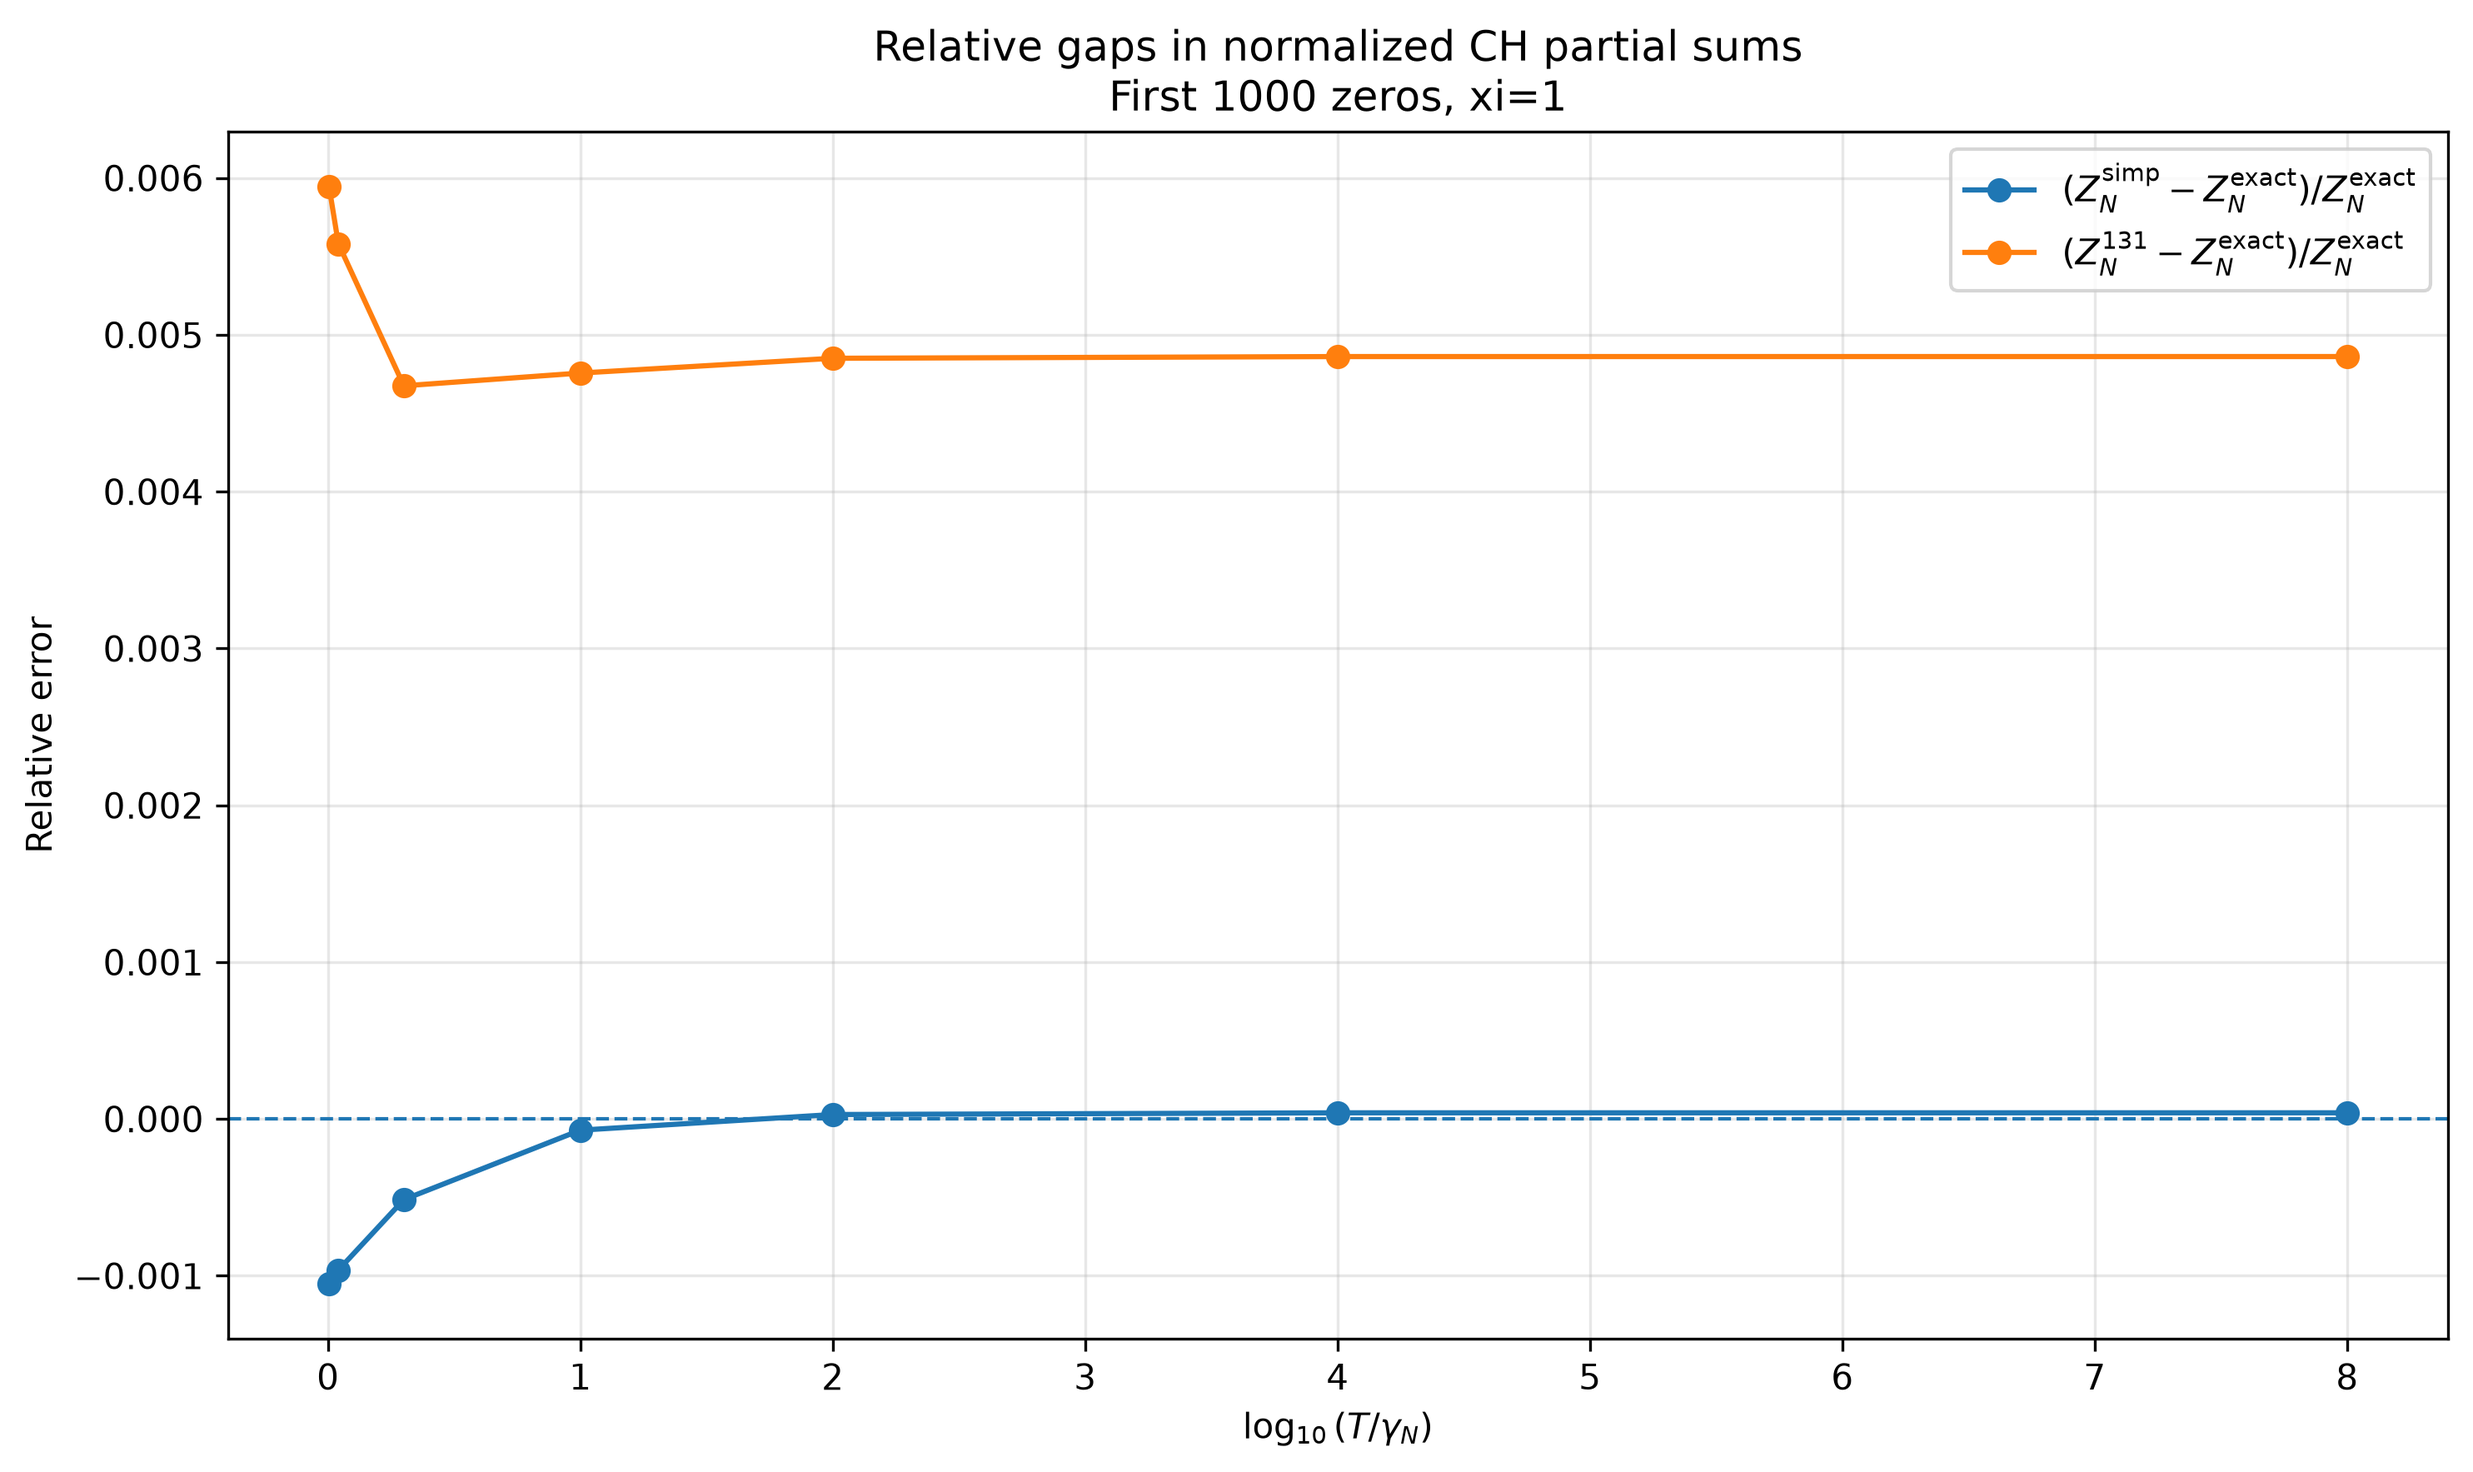
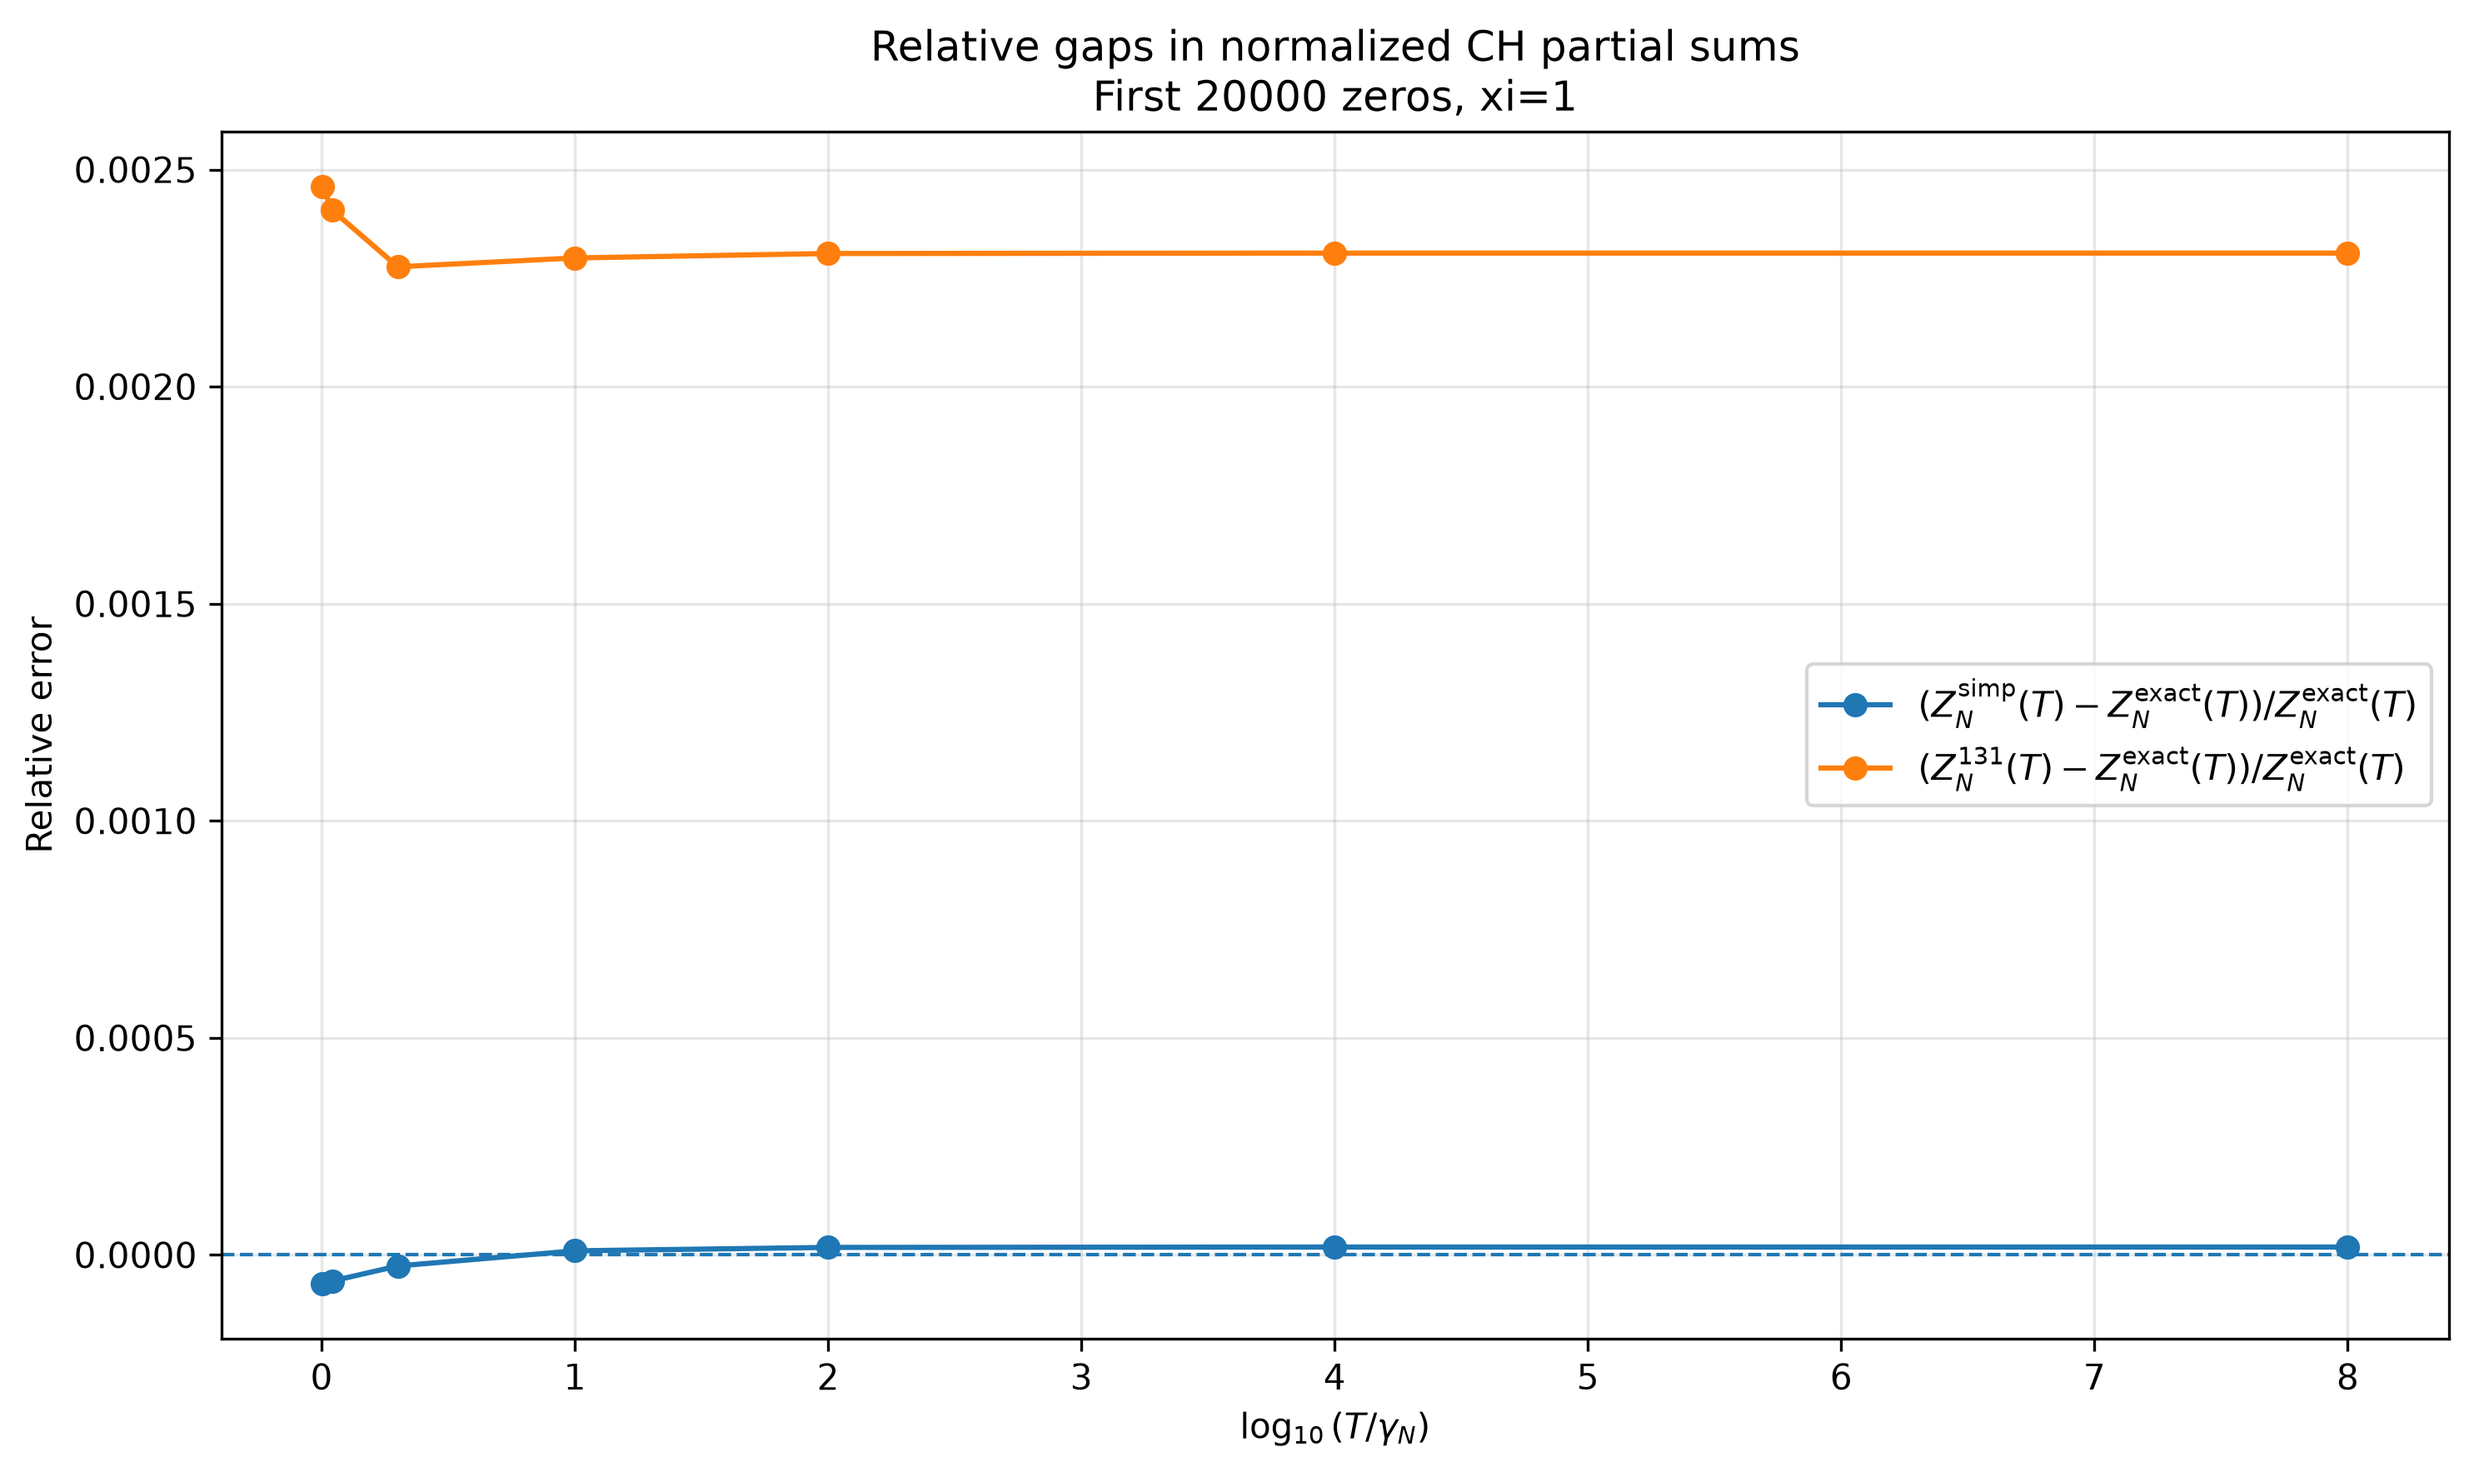
partial sum plotting

diff --git a/src/thesis/weights.py b/src/thesis/weights.py
@@ -3,6 +3,8 @@ from pathlib import Path
 
 import matplotlib.pyplot as plt
 
+import csv
+
 from sage.all import (
     ComplexField,
     RealField,
@@ -904,8 +906,8 @@ def plot_normalized_sum_relative_gaps(
         simp_gaps,
         marker="o",
         label=(
-            r"$(Z_N^{\mathrm{simp}}-"
-            r"Z_N^{\mathrm{exact}})/Z_N^{\mathrm{exact}}$"
+            r"$(Z_N^{\mathrm{simp}}(T) -"
+            r"Z_N^{\mathrm{exact}}(T))/Z_N^{\mathrm{exact}}(T)$"
         ),
     )
     axis.plot(
@@ -913,8 +915,8 @@ def plot_normalized_sum_relative_gaps(
         upper_gaps,
         marker="o",
         label=(
-            r"$(Z_N^{131}-"
-            r"Z_N^{\mathrm{exact}})/Z_N^{\mathrm{exact}}$"
+            r"$(Z_N^{131}(T)-"
+            r"Z_N^{\mathrm{exact}}(T))/Z_N^{\mathrm{exact}}(T)$"
         ),
     )
 
@@ -1322,6 +1324,60 @@ print(f"Predicted relative gap:    {predicted_relative_gap}")
 
 
 
+
+
+
+# Normalized partial sums, fixed N and T varying
+n = 20000
+zeros = load_rh_zeros(20000)
+gamma_max = RF(zeros[-1].imag())
+xi = RF(1)
+
+scale_factors = [
+    RF("1.01"),
+    RF("1.1"),
+    RF(2),
+    RF(10),
+    RF(100),
+    RF(10**4),
+    RF(10**8),
+]
+
+T_values = [
+    factor * gamma_max
+    for factor in scale_factors
+]
+
+records = compute_normalized_partial_sums(zeros, T_values, xi)
+
+# plot
+plot_normalized_partial_sums(
+    records=records,
+    n=n,
+    xi=xi,
+    output_path="output/ch_normalized_partial_sums.png",
+    show=True,
+)
+
+
+plot_normalized_sum_relative_gaps(
+    records=records,
+    n=n,
+    xi=xi,
+    output_path="output/ch_normalized_partial_sum_gaps.png",
+    show=True,
+)
+
+# output data to CSV to load to tex
+headers = records[0].keys()
+with open("output/partial_sums_varying_T.csv", mode="w", newline="", encoding="utf-8") as file:
+    writer = csv.DictWriter(file, fieldnames=headers)
+    writer.writeheader()
+    writer.writerows(records)
+
+
+
+
 """
 plot_normalized_partial_sums(
     records=records,
@@ -1387,7 +1443,7 @@ if __name__ == "__main__":
 
 
 
-
+"""
 n_values = [
     100,
     200,
@@ -1449,4 +1505,5 @@ plot_partial_sum_gaps_varying_n(
     ),
     show=True,
 )
+"""
 
